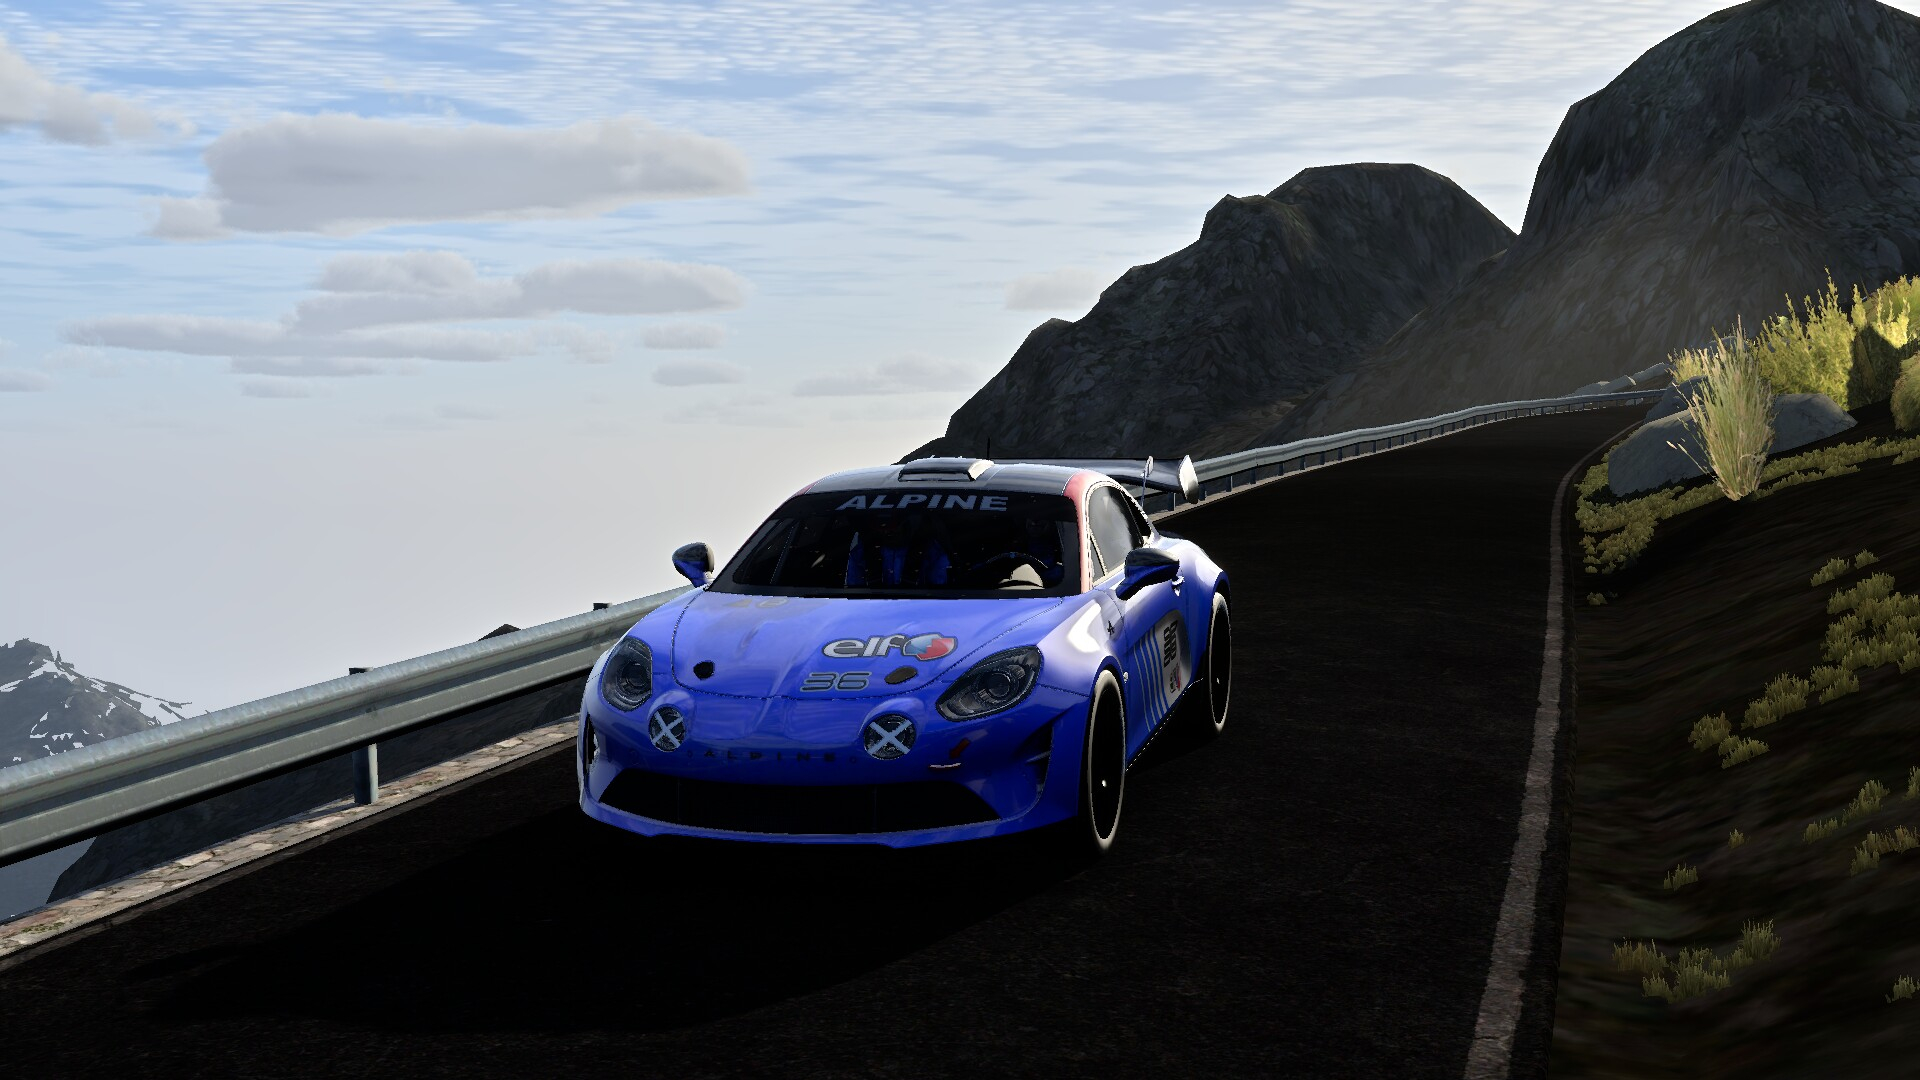
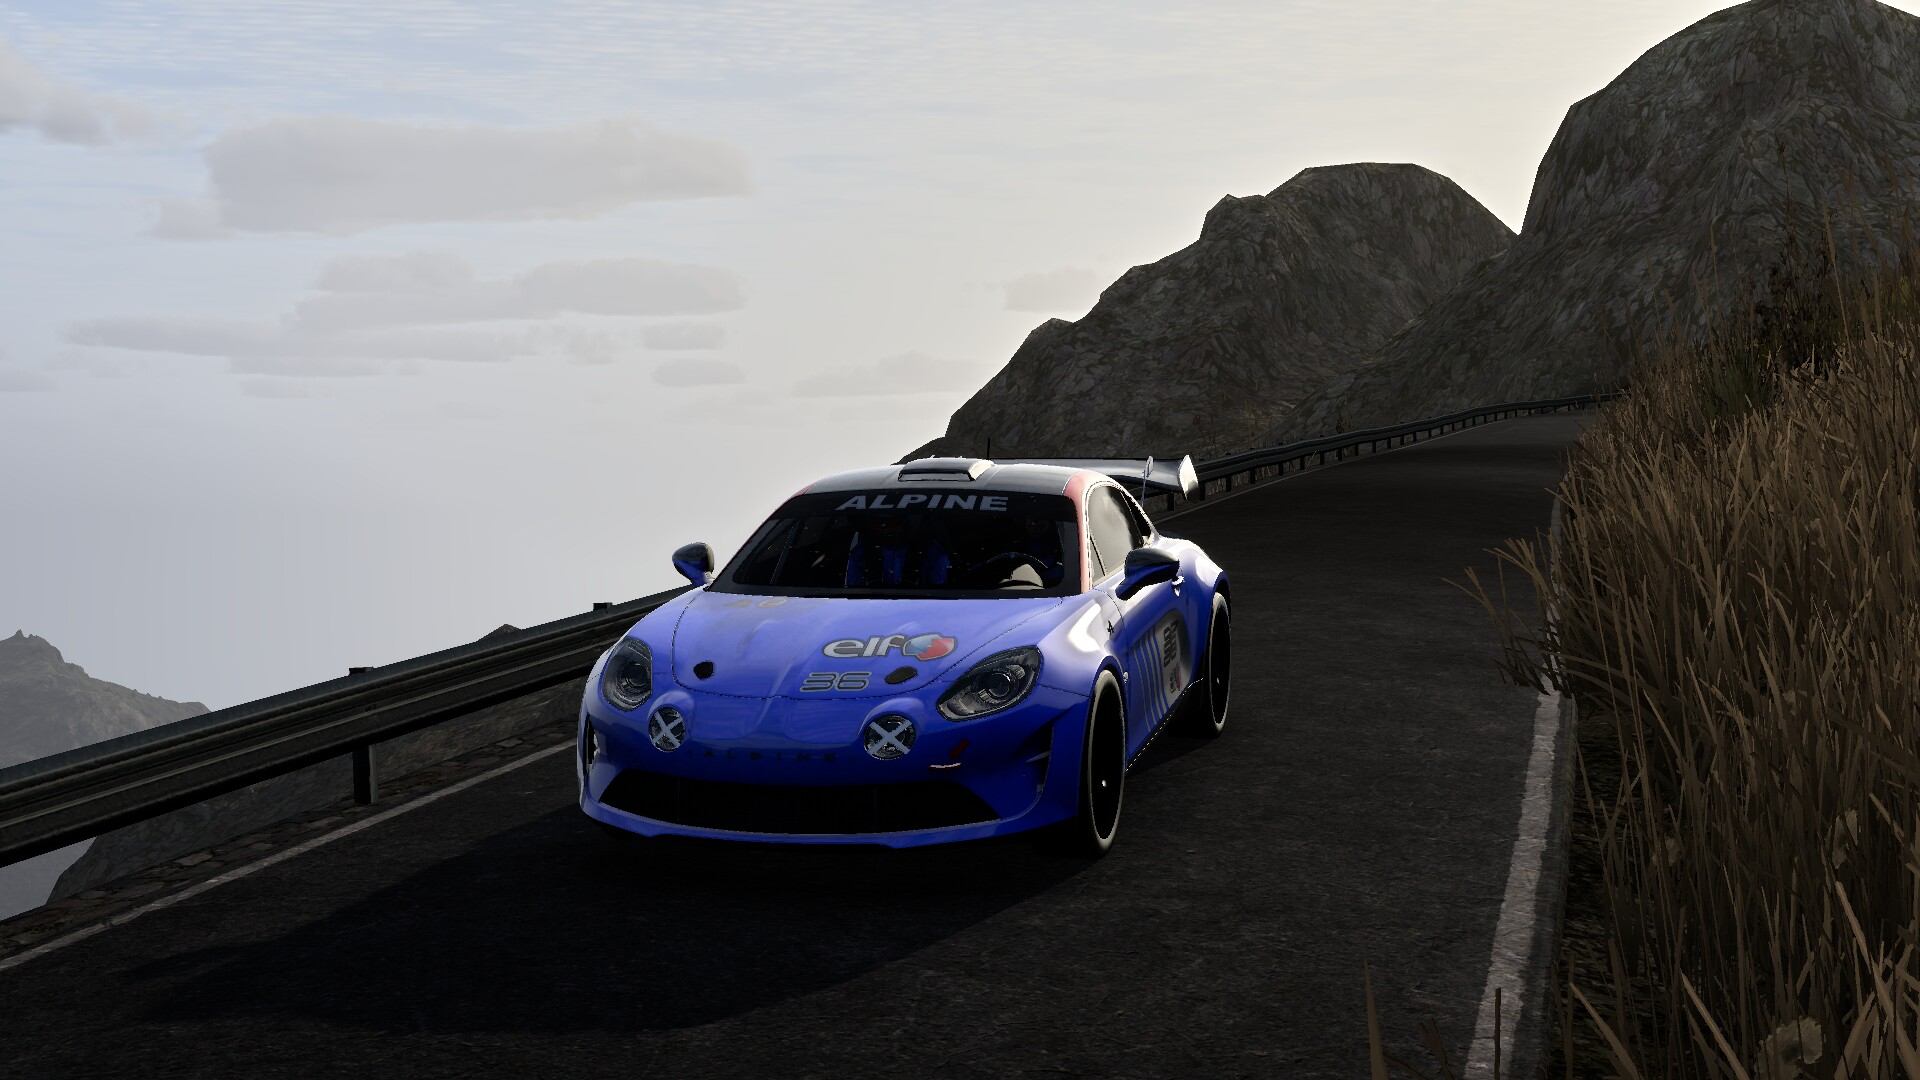
GrassFX clump density by cell area, so small-celled atlases (Créquy) keep their cover; AC reference shots on the reconverted stages

diff --git a/crates/rbr-render/src/grass.rs b/crates/rbr-render/src/grass.rs
@@ -40,8 +40,10 @@ const BAND: f32 = 20.0;
 /// Clumps (two crossed cards) a square metre on fully grassy ground within [`FULL`] of the driveline, thinning to
 /// [`FAR_SHARE`] of it at [`BAND`].
 const DENSITY: f32 = 40.0;
-/// A converted stage's clumps a square metre: its atlas pieces are tufts of half a metre and more, not our blades.
-const FX_DENSITY: f32 = 5.0;
+/// A converted stage's atlas clumps a square metre times its cell's area ([`Fx::density`]): smaller cells, more clumps,
+/// the same cover. Calibrated on Sa Calobra (cell 0.91 m: 5 clumps a square metre, separate tufts as in the AC shot);
+/// Créquy's 0.28 m cells take 52, near our [`DENSITY`].
+const FX_COVER: f32 = 4.1;
 const FULL: f32 = 10.0;
 const FAR_SHARE: f32 = 0.4;
 /// The steepest ground that takes grass: the cosine of its slope.
@@ -179,6 +181,14 @@ impl Fx {
     fn cell(&self) -> f32 {
         let size = self.atlas.as_ref().map_or(0.0, |(a, _)| a.size);
         CELL_PER_SIZE * if size > 0.0 { size } else { DEFAULT_SIZE }
+    }
+
+    /// Clumps a square metre: [`FX_COVER`] cells' worth with an atlas (at most [`DENSITY`] and a half), else ours.
+    fn density(&self) -> f32 {
+        match self.atlas {
+            Some(_) => (FX_COVER / self.cell().powi(2)).min(DENSITY * 1.5),
+            None => DENSITY,
+        }
     }
 
     /// A card's picture's rectangle (`u0, u1, v0, v1`) and its width and height in cells (the piece's cells times its
@@ -532,7 +542,7 @@ impl Field {
             let p = g.p;
             let centre = (p[0] + p[1] + p[2]) / 3.0;
             let mut random = Random::at(centre);
-            let wanted = g.area * if self.fx.is_some() { FX_DENSITY } else { DENSITY } + random.next();
+            let wanted = g.area * self.fx.as_ref().map_or(DENSITY, Fx::density) + random.next();
             for _ in 0..wanted as usize {
                 // Every card draws the same numbers whatever it becomes, so the sequence holds across tiles and shares.
                 let [a, b, keep, chance, turn, width, height, pick, lean, lean_turn] = [0; 10].map(|_| random.next());

diff --git a/notes/assetto.md b/notes/assetto.md
@@ -505,8 +505,9 @@ driveline points (`scripts/btb-shots.py`), against the previous build's stage.
   (Highlands). Row order checked on Sa Calobra's atlas (`3,1,1,2` the heather, `4,1,2,2` the reeds, the top row the
   plain grass, which `base` takes one cell each; test `an_atlas_piece_counts_its_rows_from_the_bottom`). Size: a cell is
   `SHAPE_SIZE` x 0.14 m (6.5: 0.91 m, blade heights matched by eye to the AC rock shot's boulders), times the
-  piece's cells and `SIZE_MULT`, 0.8-1.2 per clump, `FX_DENSITY` 5 clumps a m² (ours 40: at 0.08 m and 40 the verge
-  was a carpet, AC's has separate tufts); unset `SHAPE_SIZE` takes 1.5. Colour: the ground's hue at `FX_SATURATION`
+  piece's cells and `SIZE_MULT`, 0.8-1.2 per clump, clumps a m² `FX_COVER` 4.1 over the cell's area (Sa Calobra
+  5, Créquy's 0.28 m cells 52, at most 60; our blades 40: at 0.08 m and 40 Sa Calobra's verge was a carpet, AC's has
+  separate tufts; a flat 5 left Créquy's verges bare); unset `SHAPE_SIZE` takes 1.5. Colour: the ground's hue at `FX_SATURATION`
   0.55 (no lush/straw lean) and `FX_SHADE` 2.2 with the brightness ratio clamp lowered (`FX_BRIGHT`); the cards carry
   `specular.z` 2 (`FX_CARD`) and `own_light` ramps them from `FX_GRASS_ROOT` 0.25 at the foot to `FX_GRASS_TIP`
   (1.2, 1.0, 0.95) at the top. At 0.3/1.2 (07:35 calibration) the verges read charcoal, at 0.7/2.5 with no ramp
@@ -682,3 +683,14 @@ Evidence: the compiled AC shaders (`system/shaders/win/*_ps.fxo`, disassembled w
   (mean / standard deviation) to 63.8 / 8.2 and 46.1 / 21.3 to 46.7 / 20.6 (AC's 59 / 11): the grain is now the detail textures' structure
   (cracks, patches) at any distance; the large-scale colour matches the tile bakes (blurred-grey correlation 0.95 to 0.999), so the world
   offsets are AC's. Roure rbcl 12:00 at 750 m and 3750 m along: no visible regression.
+
+## Reinstall with the AC look work, 2026-11-19
+
+- The 40 installed AC stages but Gunma (source gone) converted again from `e593a603` with the options of their
+  `ac-conversion.json` (`--remesh --collision-corridor 25` where remeshed, `--circuit` for Nordschleife and Ebisu,
+  `--reverse-ai` for Akina): 7 min, three at a time. Driveline, pacenotes, spawn, `track.ini` and collision identical
+  on all but Ebisu, now a circuit (`lap_line` spawn, 34 pacenotes); drawn triangles up with the far surfaces (Sa
+  Calobra 1.86 to 1.94 M). Sizes: Riudecanyes 2022 844 to 307 MB, Nordschleife 1278 to 539 MB (multilayer drawn, not
+  baked), Roure 429 to 815 MB. Former folders in the player's `backups/pre-ac-look-20261119` (34 GB).
+- Shots: `render-shots.py` must run without `RBR_DATA` from `dev.env` (the bare retail install): the launcher passes it
+  as `--data`, and RSF cars' liveries and lamp textures then go missing (white Yaris, no tail lights).
